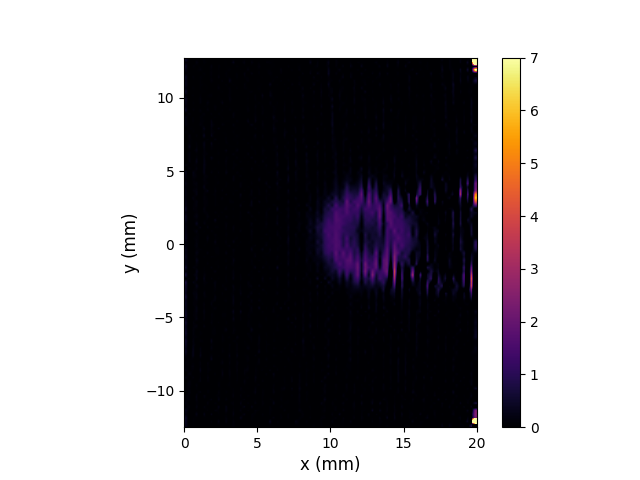
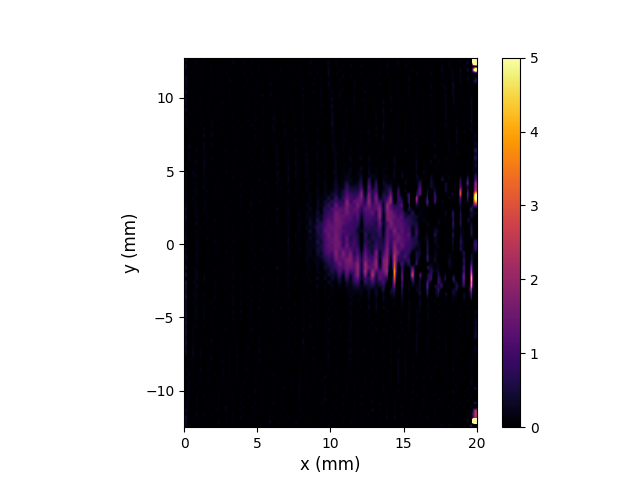
Regenerated four pcolor scales

diff --git a/experiment5/bin/wiretools.py b/experiment5/bin/wiretools.py
@@ -739,7 +739,7 @@ visualizing the solution
             raise Exception('The grid solution is not yet available.  Call the SOLVE() method first.')
         return self.X.reshape(self.N[1],self.N[0])
 
-    def pseudocolor(self, savefig=None, vscale=(0., 7.)):
+    def pseudocolor(self, savefig=None, vscale=(0., 5.)):
         """Generate a pseudo-color plot of the solution
     pseudocolor(fig=None, savefig=None)
     
